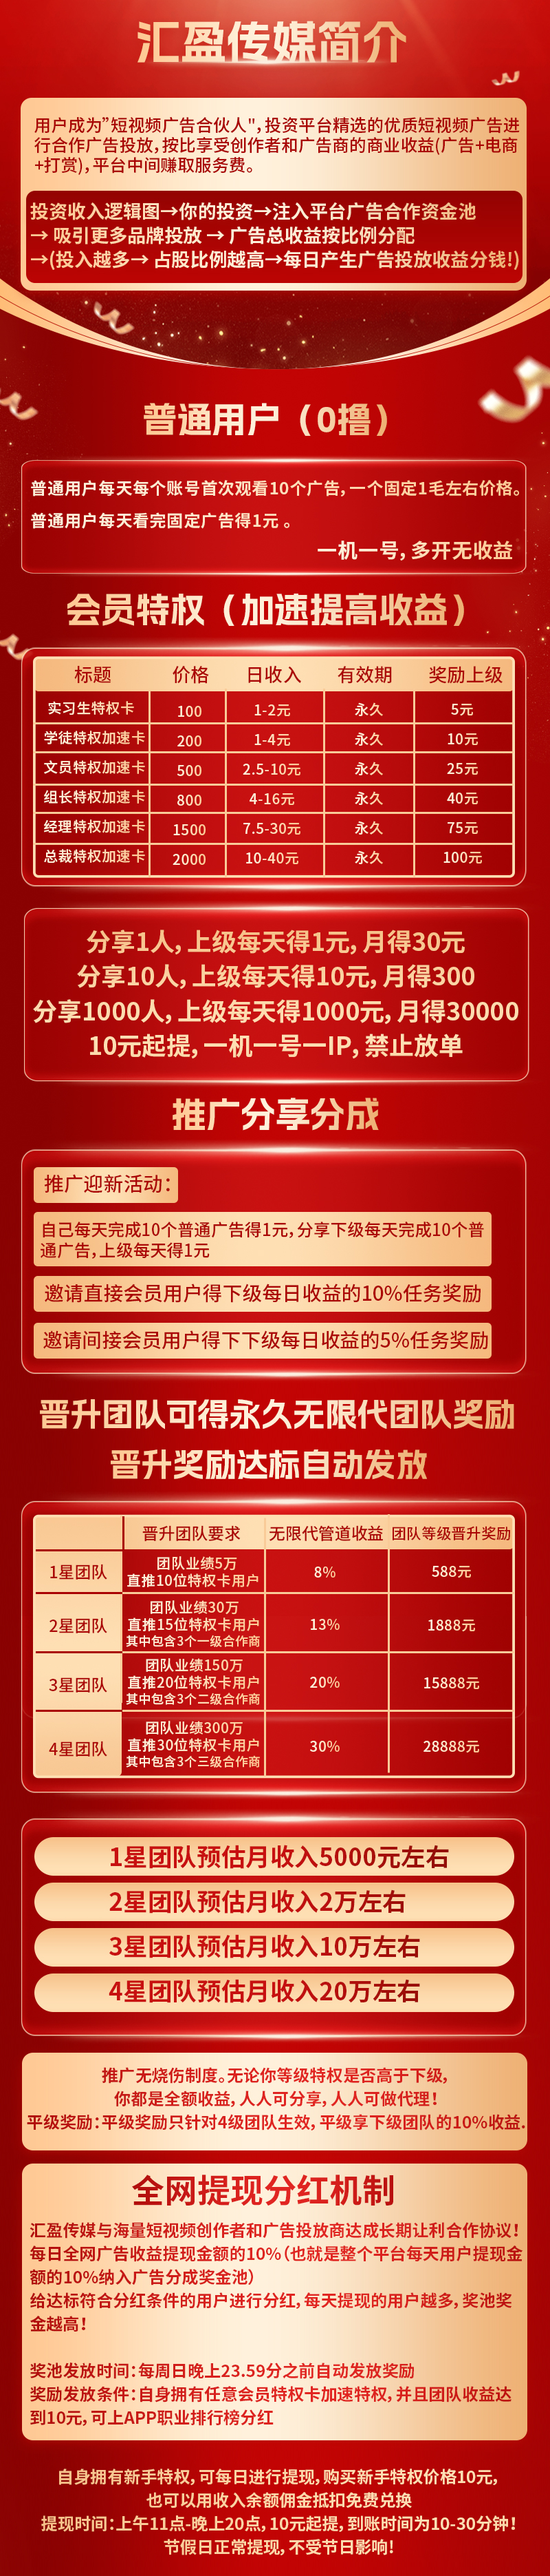
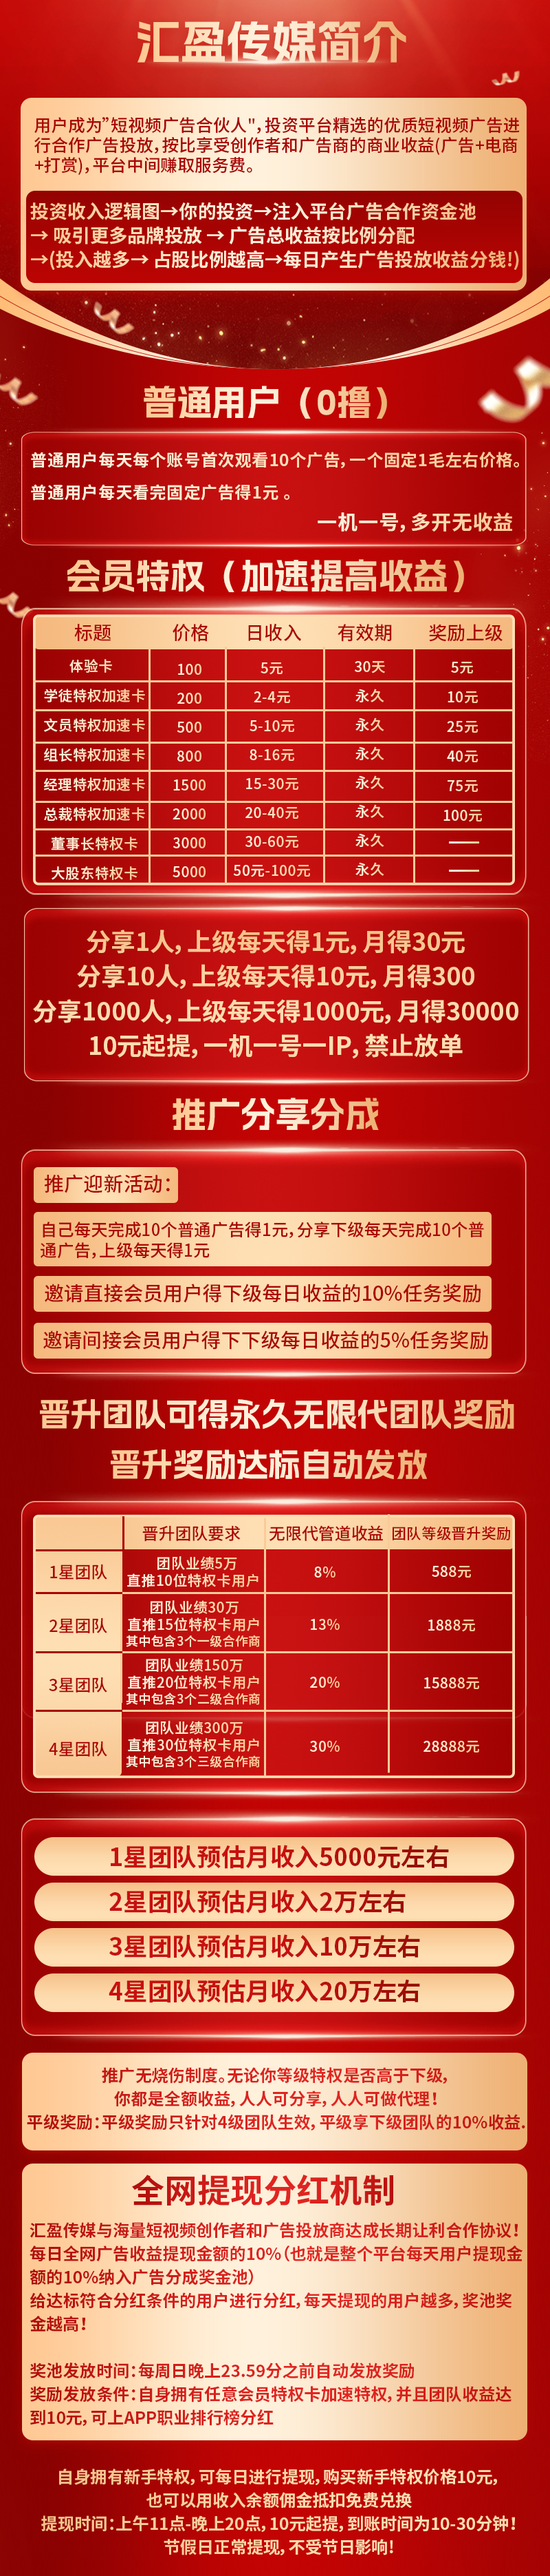
feat: 修改为微脉圈

Changed region(s): [[0.0, 0.124, 0.9375, 0.3721]]

diff --git a/src/pages/me/recharge.vue b/src/pages/me/recharge.vue
@@ -287,35 +287,35 @@
         >充值
       </el-button>
     </div>
-    <div style="margin: 20px; color: #ccc">
-      <div>
-        365钱包活动：首次使用365钱包充值454元，实际到账600元余额
-        <span
-          style="text-decoration: underline; color: #1e83d3"
-          @click="
-            $router.push({
-              path: 'downloadInfo',
-              type: '365'
-            })
-          "
-          >点击下载安装365钱包</span
-        >
-      </div>
-      <div style="margin-top: 20px">
-        JD钱包活动：首次使用JD钱包充值1000元，实际到账1100元余额
-        首次使JD钱包充值5000元，实际到账5300元
-        <span
-          style="text-decoration: underline; color: #1e83d3"
-          @click="
-            $router.push({
-              path: 'downloadInfo',
-              type: 'jd'
-            })
-          "
-          >点击下载安装JD钱包</span
-        >
-      </div>
-    </div>
+    <!--    <div style="margin: 20px; color: #ccc">-->
+    <!--      <div>-->
+    <!--        365钱包活动：首次使用365钱包充值454元，实际到账600元余额-->
+    <!--        <span-->
+    <!--          style="text-decoration: underline; color: #1e83d3"-->
+    <!--          @click="-->
+    <!--            $router.push({-->
+    <!--              path: 'downloadInfo',-->
+    <!--              type: '365'-->
+    <!--            })-->
+    <!--          "-->
+    <!--          >点击下载安装365钱包</span-->
+    <!--        >-->
+    <!--      </div>-->
+    <!--      <div style="margin-top: 20px">-->
+    <!--        JD钱包活动：首次使用JD钱包充值1000元，实际到账1100元余额-->
+    <!--        首次使JD钱包充值5000元，实际到账5300元-->
+    <!--        <span-->
+    <!--          style="text-decoration: underline; color: #1e83d3"-->
+    <!--          @click="-->
+    <!--            $router.push({-->
+    <!--              path: 'downloadInfo',-->
+    <!--              type: 'jd'-->
+    <!--            })-->
+    <!--          "-->
+    <!--          >点击下载安装JD钱包</span-->
+    <!--        >-->
+    <!--      </div>-->
+    <!--    </div>-->
 
     <div style="background-color: #2e3350; padding: 10px; margin: 20px; border-radius: 10px">
       <van-icon name="warning-o" color="red" size="25" />

diff --git a/src/pages/me/invest.vue b/src/pages/me/invest.vue
@@ -114,7 +114,11 @@
               <div>永久有效期</div>
               <div>功能：广告每天无限刷</div>
             </span>
-
+            <span v-else-if="item.serial === 1">
+              <div>每日收益；5元</div>
+              <div>有效期：30天</div>
+              <div>累计收益150元</div>
+            </span>
             <template v-else>
               <div>
                 日收益:<span style="font-weight: bolder"
@@ -730,7 +734,7 @@ const getAllStaff = () => {
   loading.value = true
 
   reqAllStaff(searchInfo).then((res: any) => {
-    staffList.value = res.data.data
+    staffList.value = res.data.data.filter((item) => item.serial)
     loading.value = false
     // res.data.data.forEach((item, index) => {
     //   for (const itemKey in item) {
@@ -788,22 +792,17 @@ const buy = () => {
     return
   }
 
-  if (userInfo.value.result.staff.id == 0 && item.serial != 0) {
+  if (userInfo.value.result.staff.id == 0 && item.serial != 1) {
     return showToast({
       message: '请逐级购买！',
       icon: 'warning'
     })
   }
-  if (
-    userInfo.value.result.staff.serial + 1 != item.serial &&
-    userInfo.value.result.staff.id !== 0
-  ) {
-    if (item.serial !== 0 && item.serial !== 1) {
-      return showToast({
-        message: '请逐级购买！',
-        icon: 'warning'
-      })
-    }
+  if (userInfo.value.result.staff.serial + 1 != item.serial) {
+    return showToast({
+      message: '请逐级购买！',
+      icon: 'warning'
+    })
   }
 
   loading.value = true

diff --git a/src/pages/home/index.vue b/src/pages/home/index.vue
@@ -283,7 +283,7 @@
     <BaseFooter :is-white="true" v-bind:init-tab="1" />
     <TipDialog
       v-model="showGonggaoOverlay"
-      confirm-text="点击下载68扫码进群"
+      confirm-text="点击下载微脉圈扫码进群"
       @confirm="handleGonggaoConfirm"
     >
       <p
@@ -295,7 +295,7 @@
           font-weight: bolder;
         "
       >
-        请使用68APP扫码进官方群
+        请使用微脉圈APP扫码进官方群
       </p>
       <div style="padding: 20px">
         <img alt="" src="@/assets/img/weimaiquan.jpg" style="width: 100%" />
@@ -312,8 +312,8 @@
       "
     >
       <div style="padding: 20px; color: #fff; text-align: center">
-        <p style="font-size: 18px; font-weight: bolder; margin-bottom: 10px">请先购买学徒特权！</p>
-        <p>会员广告收入是普通广告的5-10倍加速收益，最低学徒特权可以进行加速收益！</p>
+        <p style="font-size: 18px; font-weight: bolder; margin-bottom: 10px">请先购买体验卡！</p>
+        <p>会员广告收入是普通广告的5-10倍加速收益！</p>
       </div>
     </TipDialog>
 
@@ -363,7 +363,7 @@ const showGonggaoOverlay = ref(false)
 const handleGonggaoConfirm = () => {
   showGonggaoOverlay.value = false
   // window.location.href = 'https://a.app.qq.com/o/simple.jsp?pkgname=com.edujia.weimai'
-  window.location.href = 'https://68chat5.com/cn/'
+  window.location.href = 'http://fir.edujia.com/wmq'
 }
 const isIos = /iPhone|iPad|iPod/i.test(navigator.userAgent)
 

diff --git a/src/pages/me/dep.vue b/src/pages/me/dep.vue
@@ -205,7 +205,7 @@
     >
       <div style="padding: 20px">
         <p style="color: #fff; text-align: center">
-          请购买新手特权卡，再发起提现，提现时间为上午11点---晚上20点，提现30分钟内到账，每天不限制提现次数。
+          请购买特权卡，再发起提现，提现时间为上午11点---晚上20点，提现30分钟内到账，每天不限制提现次数。
         </p>
         <!--        <p style="margin-top: 10px">-->
         <!--          2: 你无需充值，你也可以使用余额转账功能，将你的余额出售给有会员的用户！-->
@@ -447,12 +447,13 @@ async function goPay() {
   }
 
   const myStaffRes = await reqMyStaff()
-  const findItem = (myStaffRes?.data || []).find((item) => {
-    return item?.result?.staff?.id === 176
-  })
-  // const serial = user?.result?.staff?.serial
-  // if (!serial && user?.result?.staff?.id !== 176) {
-  if (!findItem) {
+  // const findItem = (myStaffRes?.data || []).find((item) => {
+  //   return item?.result?.staff?.id === 176
+  // })
+  const serial = user?.result?.staff?.serial
+  // if (!serial) {
+  if (!myStaffRes?.data?.length) {
+    // if (!findItem) {
     showGonggaoOverlay.value = true
     // showDialog({
     //   title: '重要公告',

diff --git a/src/views/common/pages/sign-in.vue b/src/views/common/pages/sign-in.vue
@@ -70,7 +70,7 @@
       </div>
       <TipDialog
         v-model="showGonggaoOverlay"
-        confirm-text="点击下载68扫码进群"
+        confirm-text="点击下载微脉圈扫码进群"
         @confirm="handleGonggaoConfirm"
       >
         <p
@@ -82,7 +82,7 @@
             font-weight: bolder;
           "
         >
-          请使用68APP扫码进官方群
+          请使用微脉圈APP扫码进官方群
         </p>
         <div style="padding: 20px">
           <img alt="" src="@/assets/img/weimaiquan.jpg" style="width: 100%" />
@@ -123,7 +123,7 @@ const showGonggaoOverlay = ref(false)
 const handleGonggaoConfirm = () => {
   showGonggaoOverlay.value = false
   // window.location.href = 'https://a.app.qq.com/o/simple.jsp?pkgname=com.edujia.weimai'
-  window.location.href = 'https://68chat5.com/cn/'
+  window.location.href = 'http://fir.edujia.com/wmq'
 }
 const router = useRouter()
 const state = reactive({

diff --git a/src/views/common/pages/sign-up.vue b/src/views/common/pages/sign-up.vue
@@ -94,7 +94,7 @@
 
     <TipDialog
       v-model="showGonggaoOverlay"
-      confirm-text="点击下载68扫码进群"
+      confirm-text="点击下载微脉圈扫码进群"
       @confirm="handleGonggaoConfirm"
     >
       <p
@@ -106,7 +106,7 @@
           font-weight: bolder;
         "
       >
-        请使用68APP扫码进官方群
+        请使用微脉圈APP扫码进官方群
       </p>
       <div style="padding: 20px">
         <img alt="" src="@/assets/img/weimaiquan.jpg" style="width: 100%" />
@@ -133,7 +133,7 @@ const showGonggaoOverlay = ref(false)
 const handleGonggaoConfirm = () => {
   showGonggaoOverlay.value = false
   // window.location.href = 'https://a.app.qq.com/o/simple.jsp?pkgname=com.edujia.weimai'
-  window.location.href = 'https://68chat5.com/cn/'
+  window.location.href = 'http://fir.edujia.com/wmq'
 }
 const user = useUsers()
 const router = useRouter()

diff --git a/src/pages/me/myteam.vue b/src/pages/me/myteam.vue
@@ -915,13 +915,13 @@ const list = [
   //     router.push('/fenhong')
   //   }
   // },
-  {
-    label: '晋升星级团队奖励',
-    icon: 'like-o',
-    fn() {
-      router.push('/jiangliguize')
-    }
-  },
+  // {
+  //   label: '晋升星级团队奖励',
+  //   icon: 'like-o',
+  //   fn() {
+  //     router.push('/jiangliguize')
+  //   }
+  // },
   {
     label: '佣金互转',
     icon: 'like-o',
